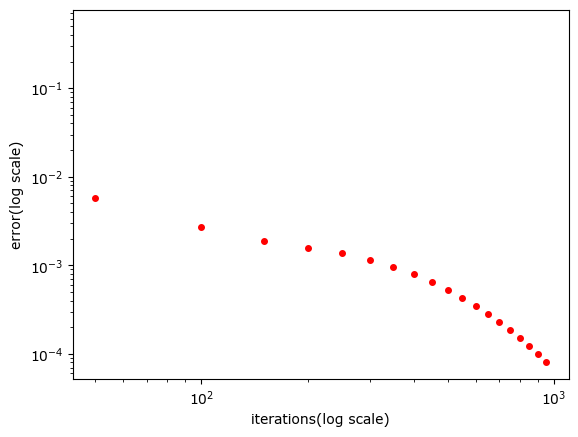
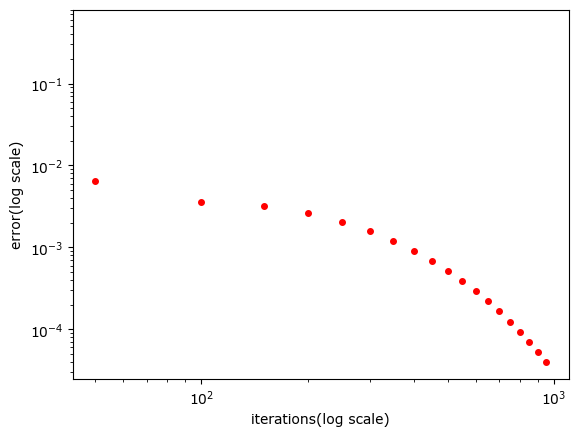
added contour plots

diff --git a/week5/EE19B123_week5.py b/week5/EE19B123_week5.py
@@ -10,14 +10,25 @@ import matplotlib.pyplot as plt
 import argparse
 import mpl_toolkits.mplot3d.axes3d as p3
 import os
+from pylab import contour, plot
+import pylab
 os.chdir('/home/tanay/Documents/sem4/EE2703/week5')
 
-##TODO make imgs directory
+#########################
+#creating an imgs directory to store all png files
+if os.path.isdir('imgs'):
+    pass
+else:
+    os.mkdir('imgs')
+#########################
 
 
-
-#python decorator to add plot label/title/legend/save file
 def add_stuf(function):
+        '''
+        decorator function
+        adds plot label/title/legend/save file
+
+        '''
         def fcall(*args, **kwargs): 
             if kwargs.get('xlabel'):
                 plt.xlabel(kwargs['xlabel'])
@@ -30,36 +41,33 @@ def add_stuf(function):
             function(*args, **kwargs)
 
             plt.savefig(kwargs['path']+'.png',bbox_inches='tight')
+            print('File saved at {}'.format(kwargs['path']))
+            plt.clf()
         return fcall
 
 
 class Plot:
     '''
-    TODO add description
+    Class for plotting various types of graphs namely
+    semilogy() 
+    loglog()
+    plot()
+    plot3D()
+    contour()
     '''
 
     def __init__(self):
         super(Plot, self).__init__()
 
-
     @add_stuf
     def semilogy(self,x,y, **kwargs):
         plt.semilogy(x,y,kwargs['marker'],ms = 4, label = kwargs['label'])
-        print('File saved at {}'.format(kwargs['path']))
-        plt.clf()
 
     @add_stuf
     def loglog(self,x,y, **kwargs):
         plt.loglog(x,y,kwargs['marker'],ms=4, label = kwargs['label'])
-        print('File saved at {}'.format(kwargs['path']))
-        plt.clf()
 
-    @add_stuf
-    def plot(self,x,y, **kwargs):
-        plt.plot(x,y,kwargs['marker'],ms=4, label = kwargs['label'])
-        print('File saved at {}'.format(kwargs['path']))
-        plt.clf()
-
+        
     @add_stuf
     def plot3D(self,x,y,z, **kwargs):
         fig = plt.figure() 
@@ -70,33 +78,102 @@ class Plot:
     def plotMany(self, x, y, **kwargs):
         pass
 
+    @add_stuf
+    def contour(self, X, Y,phi, **kwargs):
+        ids = kwargs.get('ids')
+        x = kwargs.get('x')
+        y = kwargs.get('y')
+        contour(X,Y,phi)
+        plot(x[ids[0]],y[ids[1]],'ro')
+        #plot(ids[1]-(kwargs['Nx']-1)/2,ids[0]-(kwargs['Ny']-1)/2,kwargs['marker'])
+
+    @add_stuf
+    def quiver(self, x, y,jx, jy, **kwargs):
+        inds = kwargs.get('ids')
+        Nx = kwargs.get('Nx')
+        Ny = kwargs.get('Ny')
+        phi = kwargs.get('phi')
+        fig,ax = plt.subplots()
+        fig = ax.quiver(y,x,jx[::-1, :],jy[::-1, :])
+        contour(x,y,phi)
+        pylab.plot(inds[1]-(Nx-1)/2,inds[0]-(Ny-1)/2,'ro')
     
+
 
 class PotentialSolver(Plot):
     '''
-    TODO add description
+    class to define the plate and its potential function 
+    Inherits from Plot class which has all plotting functions
     '''
     def __init__(self,Nx, Ny,R ):
         '''
-
+        Initialises the variables that is 
+        R : radius 
+        Nx, Ny : plate dimensions
         '''
         super(PotentialSolver, self).__init__()
         self.Nx = Nx
         self.Ny = Ny
         self.radius = R
-        self.phi, self.ids = self.grid()
-        self.X, self.Y = None, None
+        self.X, self.Y, self.x1,self.y1 = None, None, None, None
+        self.phi, self.ids = self.grid() # setting up the potential array
+        self.Jx , self.Jy = None, None
 
 
     def __str__(self):
         return f'The potential array is {self.phi}'
+
+    def grid(self):
+        '''
+        Function to setup the grid
+        '''
+        phi = np.zeros((self.Nx,self.Ny))
+        self.x1 = np.linspace(-(self.Nx-1)/2,(self.Nx-1)/2,self.Nx)
+        self.y1 = np.linspace(-(self.Ny-1)/2,(self.Ny-1)/2,self.Ny)
+        self.X,self.Y = np.meshgrid(self.x1,self.y1)
+        id = np.where((self.X**2 + self.Y**2) <= self.radius*self.radius)
+        phi[id] = 1.0
+        return phi, id
+
+    @staticmethod
+    def step(phi):
+        #phi_new = 1/4 *(left +right +top +bottom)
+        phi[1:-1,1:-1] = 0.25*(phi[1:-1,0:-2]+phi[1:-1,2:]+phi[0:-2,1:-1]+phi[2:,1:-1]) 
+        return phi
+
+    @staticmethod
+    def callback(phi, ids):
+        '''
+        function to reset the boundary conditions
+        '''
+        phi[1:-1,0] = phi[1:-1,1]   #left side boundary condition
+        phi[1:-1,-1] = phi[1:-1,-2] #right side boundary condition
+        #phi[0,1:-1] = phi[1,1:-1]   #top side 
+        #phi[-1, 1:-1] = 0           #bottom side as its grounded
+        phi[-1, 1:-1] = phi[-2, 1:-1]
+        phi[0, 1:-1] =0
+        phi[ids] = 1.0
+        return phi
+
+    def trainer(self, epochs):
+        '''
+        fucntion used to iterate and compute the potential
+        epochs: number of times to iterate
+        '''
+        error = np.empty(epochs)
+        for i in range(epochs):
+            old_phi = self.phi.copy()
+            self.phi = self.step(self.phi)
+            self.phi = self.callback(self.phi, self.ids)
+            error[i] = np.max(np.abs(self.phi- old_phi)) 
+        return error
 
 
     def errorFit(self,x,y):
         logy=np.log(y)
         x_arr = np.ones((len(y), 2))
         x_arr[:,0] = x
-        B,logA=np.linalg.lstsq(x_arr, np.transpose(logy))[0]
+        B,logA=np.linalg.lstsq(x_arr, np.transpose(logy), rcond = None)[0]
 
         return np.exp(logA),B
 
@@ -105,45 +182,24 @@ class PotentialSolver(Plot):
         return -A*(np.exp(B*(N+0.5)))/B
          
 
-    def grid(self):
-        phi = np.zeros((self.Ny,self.Nx))
-        x1 = np.linspace(-(self.Ny-1)/2,(self.Ny-1)/2,self.Ny)
-        y1 = np.linspace(-(self.Nx-1)/2,(self.Nx-1)/2,self.Nx)
-        self.Y,self.X = np.meshgrid(y1,x1)
-        id = np.where((self.X**2 + self.Y**2) <= ((self.radius*self.Nx)/100)**2)
-        phi[id] = 1.0
-        return phi, id
+    def cuurents(self):
+        '''
+        fucntions computes the current vectors ie: Jx , Jy
+        '''
+        self.Jx = np.zeros((self.Nx,self.Ny))
+        self.Jy = np.zeros((self.Nx,self.Ny))
 
-    @staticmethod
-    def step(phi_new, phi_old):
-        #phi_new = 1/4 *  (               left +              right +             top +           bottom)
-        phi_new[1:-1,1:-1] = 0.25*(phi_old[1:-1,0:-2]+phi_old[1:-1,2:]+phi_old[0:-2,1:-1]+phi_old[2:,1:-1]) 
-        return phi_new
+        self.Jy[:,1:-1] = 0.5*(self.phi[:,0:-2]-self.phi[:,2:])
+        self.Jx[1:-1,:] = 0.5*(self.phi[2:, :]-self.phi[0:-2,:])
 
-    @staticmethod
-    def callback(phi, ids):
-        phi[1:-1,0] = phi[1:-1,1] #left side boundary condition
-        phi[1:-1,-2] = phi[1:-1,-1] #right side boundary condition
-        phi[0,1:-1] = phi[1,1:-1]    #top side 
-        phi[-1, 1:-1] = 0 # bottom side as its grounded
-        phi[ids] = 1.0
+        return self.Jx, self.Jy
 
-        return phi
-
-
-    def trainer(self, epochs):
-        error = np.empty(epochs)
-        for i in range(epochs):
-            old_phi = self.phi.copy()
-            self.phi = self.step(self.phi, old_phi)
-            self.phi = self.callback(self.phi, self.ids)
-            error[i] = np.max(np.abs(self.phi- old_phi))
-            
-        return error
 
 
 
 if __name__ =='__main__':
+
+    #using argparse for taking inputs as several inputs are needed adn argv will get confusing
     parser = argparse.ArgumentParser()# use --help for support
     parser.add_argument('--Nx',default=25,required = True, type=int,help='Size along the x axis')
     parser.add_argument('--Ny',default=25,required = True , type=int,help='Size along the y axis')
@@ -151,27 +207,65 @@ if __name__ =='__main__':
     parser.add_argument('--Niter',default=1000,type=int,help='Number of iterations to perform', )
     args = parser.parse_args()
 
-    plate = PotentialSolver(25,25,8)
+    # create the plate instance
+    plate = PotentialSolver(args.Nx,args.Ny,args.radius)
 
-    loss = plate.trainer(1000)
+    #Task 0
+    plate.contour(plate.X, plate.Y, plate.phi, cmap=pylab.cm.get_cmap("autumn"), \
+        path ='imgs/plate_plot',\
+        ids = plate.ids, \
+        x = plate.x1,\
+        y = plate.y1
+        )
 
-    A,B = plate.errorFit(range(1000), loss)
-    A2,B2 = plate.errorFit(range(1000)[500:],loss[500:])
+    #compute the potential function
+    loss = plate.trainer(args.Niter)
+
+    A,B = plate.errorFit(range(args.Niter), loss)
+    A2,B2 = plate.errorFit(range(args.Niter)[500:],loss[500:])
 
     #Task 1.1
-    plate.semilogy(range(1000), loss, marker = 'ro', xlabel = 'iterations', ylabel = 'error)log scale)',path = 'imgs/figure1', label = 'plot')
+    plate.semilogy(range(1000), loss, \
+        marker = 'ro',\
+        xlabel = 'iterations',\
+        ylabel = 'error(log scale)',\
+        path = 'imgs/figure1',\
+        label = 'plot')
     #Task 1.2
-    plate.loglog(range(1000)[::50], loss[::50], marker = 'ro', xlabel = 'iterations(log scale)', ylabel = 'error(log scale)',path = 'imgs/figure2', label = 'plot')
+    plate.loglog(range(1000)[::50], loss[::50],\
+        marker = 'ro',\
+        xlabel = 'iterations(log scale)',\
+        ylabel = 'error(log scale)',\
+        path = 'imgs/figure2',\
+        label = 'plot')
 
-    #Task 2.1 TODO add  multiple plots cuz here u have to plot 3 in 2 graph
-    plate.semilogy(range(1000)[::50],plate.max_error(A,B,np.arange(0,1000,50)), marker = 'ro', xlabel = 'iterations', ylabel = 'error)log scale)',path = 'imgs/figure3', label = 'plot')
+    #Task 2.1 TODO add  multiple plots cuz here u have to plot 3 in a graph
+    plate.semilogy(range(1000)[::50],plate.max_error(A,B,np.arange(0,1000,50)),\
+        marker = 'ro',\
+        xlabel = 'iterations',\
+        ylabel = 'error(log scale)',\
+        path = 'imgs/figure3', \
+        label = 'plot')
 
     #Task 3
-    plate.plot3D(plate.X, plate.Y, plate.phi , path ='imgs/figure4', tile ='The 3-D surface plot of the potential')
+    #plate.plot3D(plate.X, plate.Y, plate.phi , path ='imgs/figure4', tile ='The 3-D surface plot of the potential')
 
     #Task 4 , contour potential
+    plate.contour(plate.X, plate.Y, plate.phi, cmap=pylab.cm.get_cmap("autumn"), \
+        path ='imgs/contour_plot',\
+        ids = plate.ids, \
+        x = plate.x1,\
+        y = plate.y1
+        )
 
     #Task 5 , vetcor plot of currents 
+    jx, jy = plate.cuurents()
+    plate.quiver(plate.x1, plate.y1, jx, jy,\
+        path = 'imgs/quiver_plot',\
+        phi = plate.phi, \
+        ids = plate.ids , \
+        Nx = plate.Nx,\
+        Ny = plate.Ny)
 
 
 
